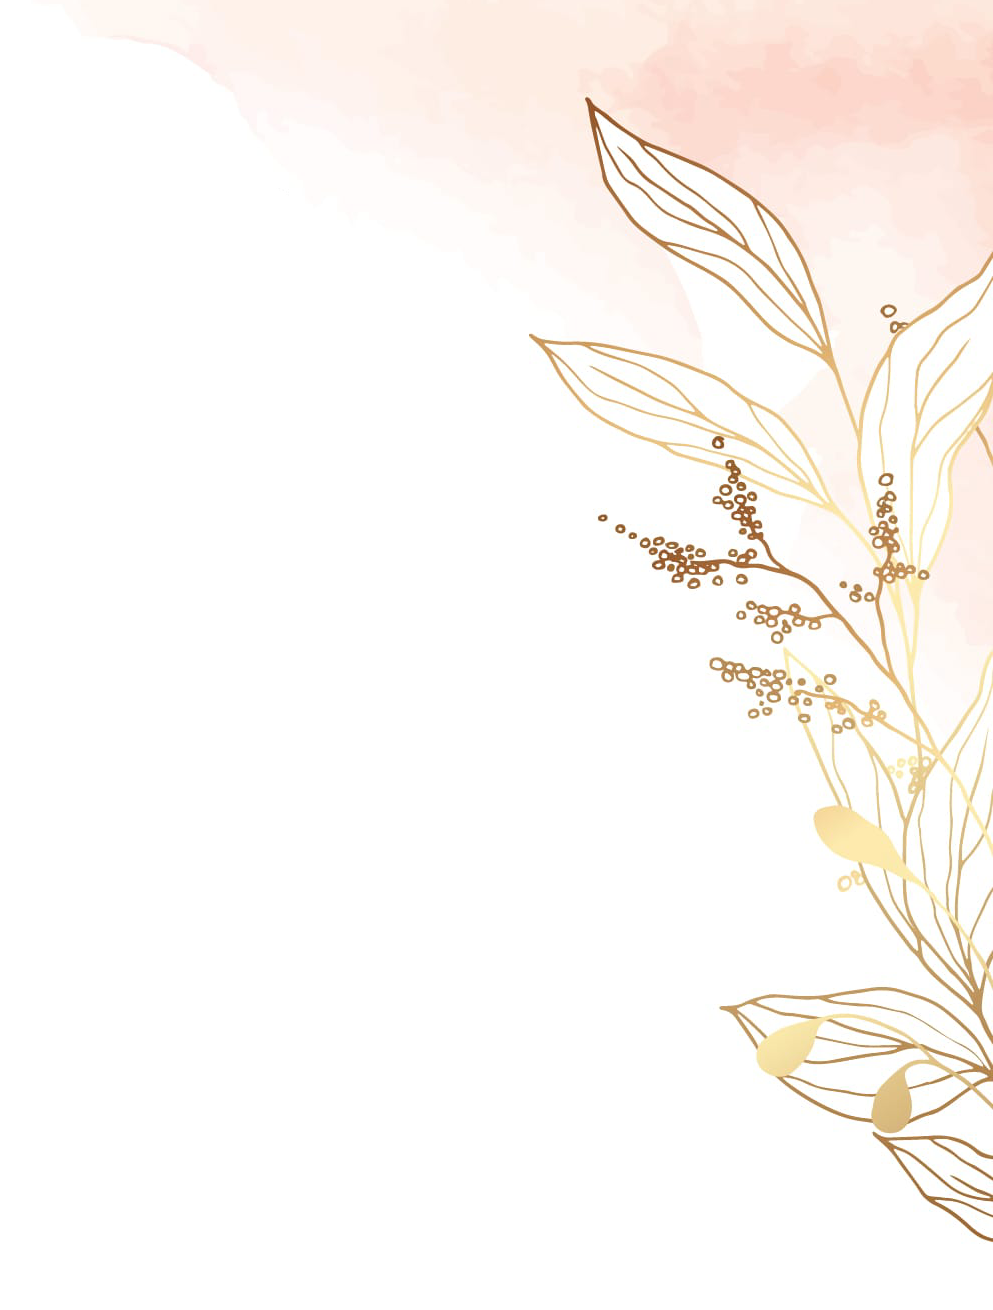
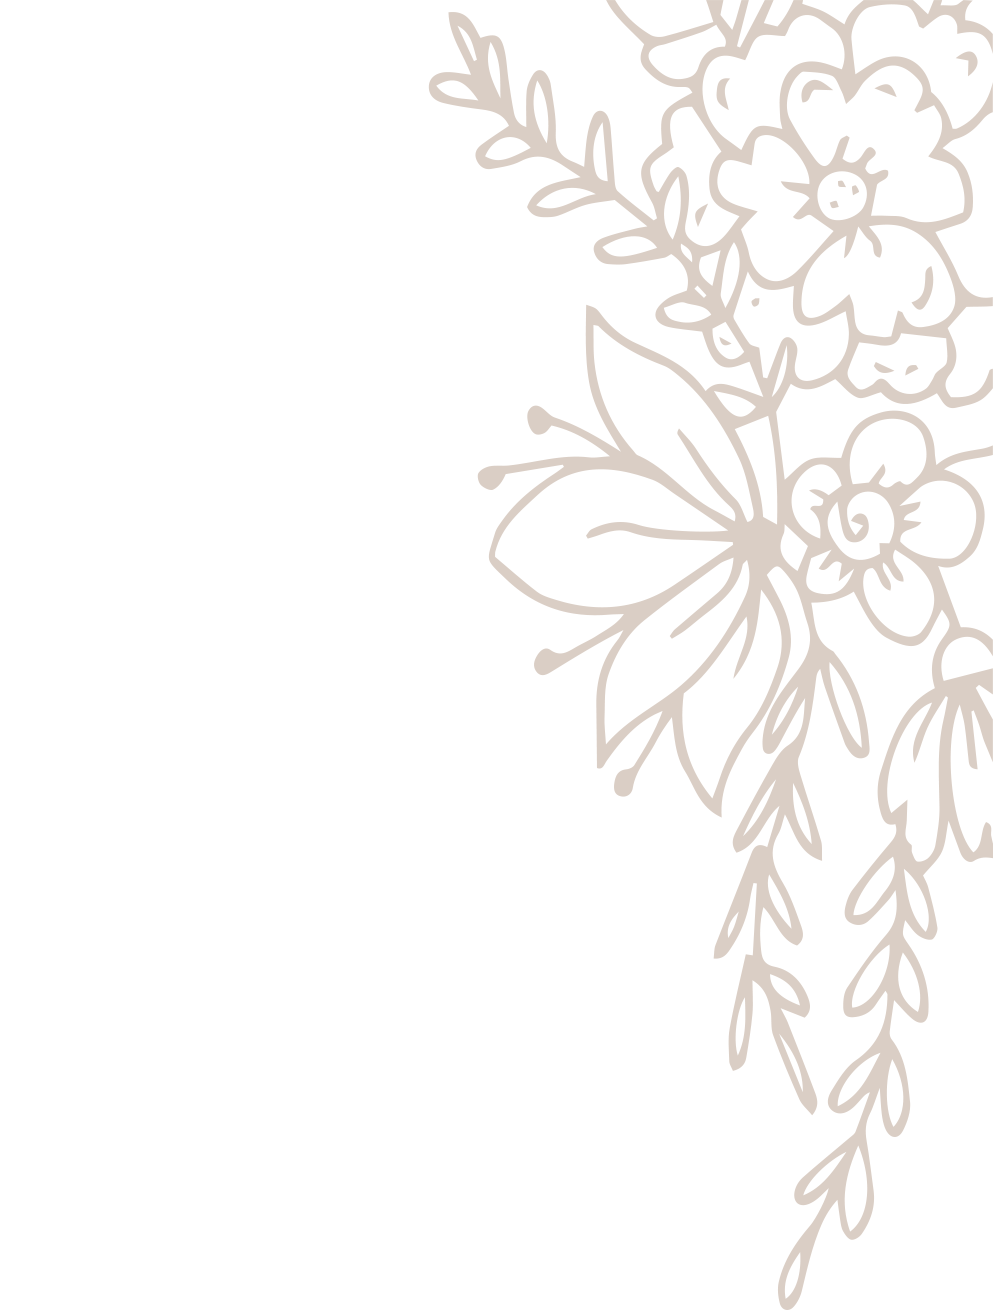
chore: design for other wedding couple (#1)
* chore: design for other wedding couple

* chore: small fix

Changed region(s): [[0.4371, 0.0, 1.0, 1.0]]

diff --git a/src/styles/main.scss b/src/styles/main.scss
@@ -114,7 +114,7 @@ main {
     border-radius: 100%;
     box-shadow: 0 0 20px colors.$white;
     color: colors.$primary;
-    font-size: 28px;
+    font-size: 36px;
     font-weight: 600;
     line-height: 30px;
     margin: 60px 0 40px 0;
@@ -128,7 +128,7 @@ main {
     }
 
     h2 {
-      font-size: 24px;
+      font-size: 28px;
       margin-top: 10px;
     }
   }
@@ -246,7 +246,7 @@ main {
       align-items: center;
       background-color: colors.$primary;
       border-radius: 100vw;
-      border: 1px solid rgba(colors.$black, 0.1);
+      border: 1px solid colors.$primary;
       color: colors.$white;
       cursor: pointer;
       display: flex;
@@ -258,7 +258,6 @@ main {
       width: 100%;
 
       &:disabled {
-        border: 1px solid rgba(colors.$black, 0);
         cursor: not-allowed;
         filter: grayscale(0.75);
       }

diff --git a/src/App.tsx b/src/App.tsx
@@ -184,6 +184,7 @@ function App() {
           <div ref={formWrapper} className="form-wrapper">
             <input
               ref={fileInput}
+              id="media"
               onChange={handleImportMedia}
               type="file"
               accept="image/*,video/*"
@@ -191,12 +192,15 @@ function App() {
               hidden
             />
             <input
+              id="primary"
               className="text-input"
               placeholder={text.form.name}
               value={form.name}
               onChange={(e) => handleFormChange('name', e.target.value)}
+              autoComplete="off"
             />
             <textarea
+              id="message"
               className="text-input"
               placeholder={text.form.message}
               value={form.message}

diff --git a/src/styles/_colors.scss b/src/styles/_colors.scss
@@ -1,6 +1,6 @@
 $black: #000000;
 $danger: #ff0000;
-$dark: #69503f;
-$light: #f1e3d3;
-$primary: #e8c578;
+$dark: #6a5241;
+$light: #ffffff;
+$primary: #d9b99b;
 $white: #ffffff;
